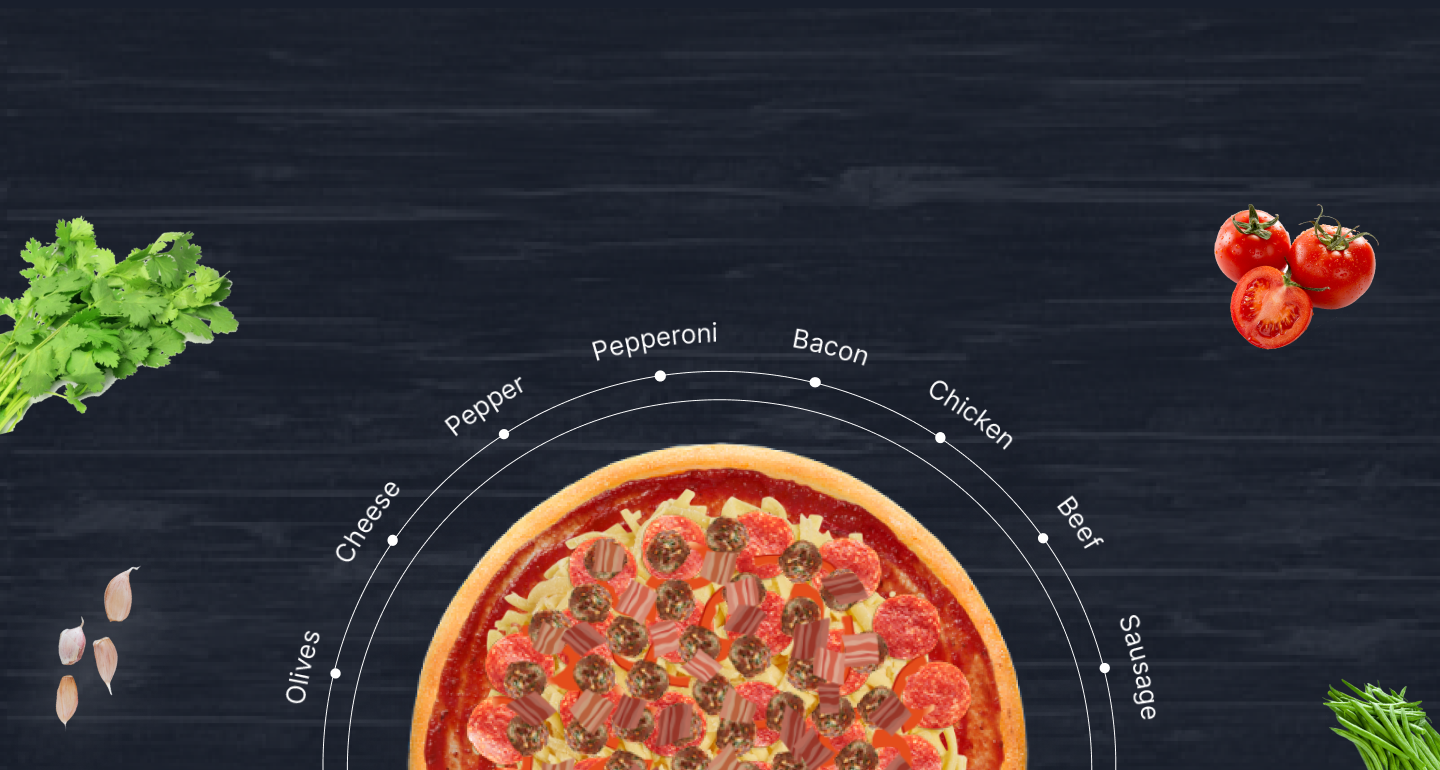
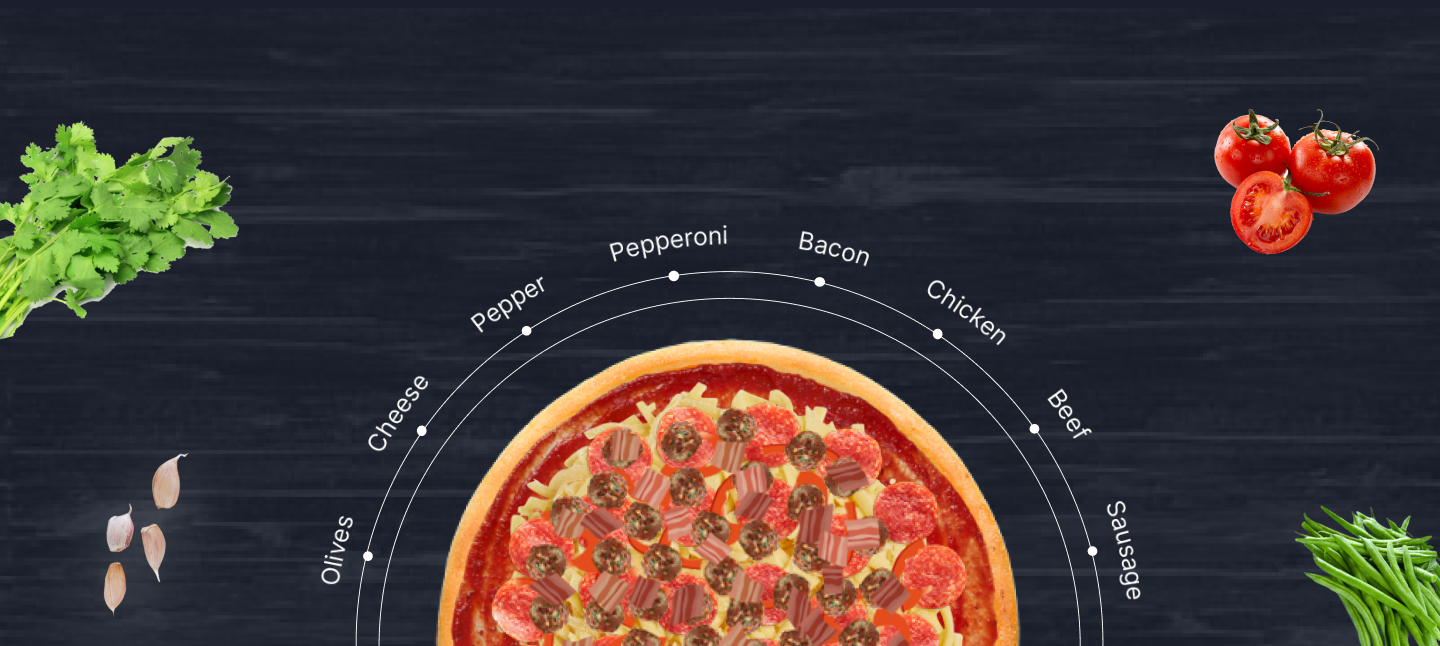
refactor: поправить стили и фон домащ=шней страницы

diff --git a/src/components/Layout/Layout.tsx b/src/components/Layout/Layout.tsx
@@ -7,9 +7,9 @@ interface Props {
 
 export const Layout: React.FC<Props> = ({ children }) => {
   return (
-    <>
+    <div style={{ width: '100vw' }}>
       <Header />
       <main>{children}</main>
-    </>
+    </div>
   );
 };

diff --git a/src/components/Header/Header.scss b/src/components/Header/Header.scss
@@ -1,7 +1,6 @@
 @import '../../assets/global-scss/fonts';
 
 .header-wrapper {
-  width: 100%;
   background-image: url('../../../public/files/header/bg-header.png');
   background-size: cover;
   display: flex;
